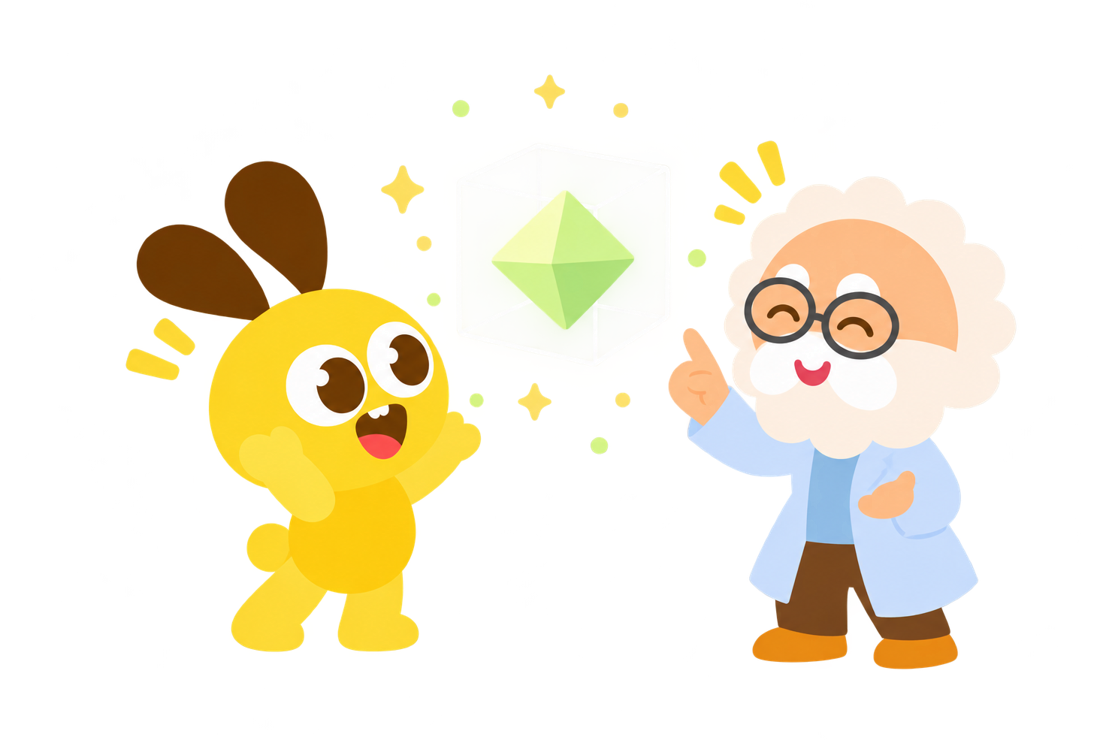
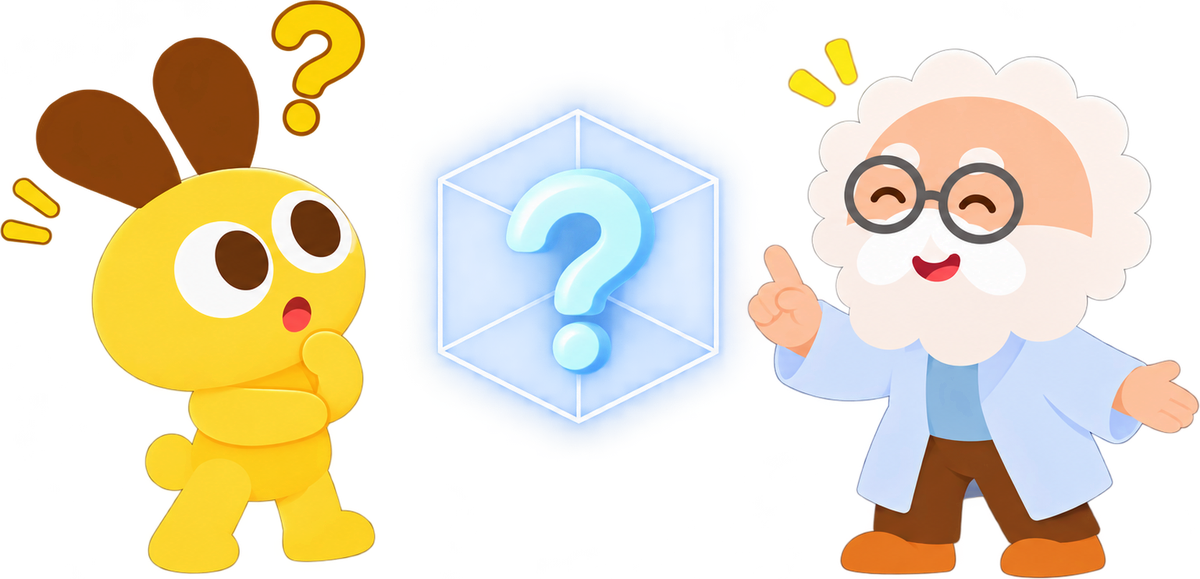
第4节第六版：统一用词“盐粒”；离子页标题加离子式；第9页可标出 Na⁺/Cl⁻；章节②新配图；课后挑战1/2、拓展挑战（养一颗大盐粒）；删去今日作业与真实盐晶体页
Claude-Session: https://claude.ai/code/session_01PcKrhaWuNhYWD5xtL8fsed

diff --git a/steamkit-course/lesson04-yanli-xiaofangkuai/review.js b/steamkit-course/lesson04-yanli-xiaofangkuai/review.js
@@ -5,7 +5,7 @@ import {batchContent,bindBatch,cleanupBatch,BATCH_MAX} from './batch-scenes.js';
 import {CAF2_STAGES} from './caf2-stages.js';
 import {NEW_MAX,kitchen,methods,micro,why,ions,conclusion,bindNew,cleanupNew} from './new-scenes.js';
 // Stable scene ids preserve all 22 existing interactions; visible page 3 is new scene 23.
-const SCENES=[1,50,55,51,5,59,52,60,61,62,63,39,38,41,40,42,44,56,57,22];
+const SCENES=[1,50,55,51,5,59,52,60,61,62,63,39,38,41,42,44,56,57,64,65];
 const $=s=>document.querySelector(s);
 const visiblePage=()=>SCENES.indexOf(state.page)+1;
 const adjacentScene=delta=>SCENES[visiblePage()-1+delta];
@@ -19,7 +19,7 @@ const axes=[0,2,1];
 const axisLine=a=>choose(grid,p=>p.every((v,k)=>k===axes[a]||Math.abs(v)<EPS));
 const bottomCenter=choose(grid,p=>p[1]<-EPS&&Math.abs(p[0])+Math.abs(p[2])<EPS);
 const layerStages=[bottomCenter,choose(grid,p=>p[1]<-EPS&&Math.abs(p[2])<EPS),choose(grid,p=>p[1]<-EPS&&p[2]<EPS),layer];
-const maxSteps={...BATCH_MAX,...NEW_MAX,52:0,59:0,60:0,61:4,62:3,63:4,39:3,57:3,2:1,4:1,6:1,8:2,9:3,10:3,11:2,14:3,15:2,16:1,19:3,21:3};
+const maxSteps={...BATCH_MAX,...NEW_MAX,52:0,59:0,60:0,61:4,62:3,63:4,39:3,57:0,64:3,2:1,4:1,6:1,8:2,9:3,10:3,11:2,14:3,15:2,16:1,19:3,21:3};
 const state={page:1,step:0,guess:null,axis:0,notes:false,toc:false,sound:true,record:false,rowError:false,recordValues:{}};
 let deck,controllers=new Map(),pour=null,scope=0,storingFailed=false;
 try{state.recordValues=JSON.parse(localStorage.getItem('salt-review-record')||'{}');if(!state.recordValues||typeof state.recordValues!=='object')state.recordValues={};}catch{state.recordValues={};}
@@ -27,7 +27,7 @@ const sound=window.createCourseSound(window.AudioContext||window.webkitAudioCont
 const specs=new Map();
 function host(key,spec,style=''){
  specs.set(key,spec);
- return `<div class="model-host" data-model-key="${key}" data-model="${spec.id}" style="${style}"><canvas tabindex="0" role="img" aria-label="黑白真实连接球与标准杆模型，可旋转、缩放"></canvas><span class="model-status" role="status">三维模型加载中…</span><button class="model-reset" aria-label="恢复本模型初始视角" title="恢复视角"><svg viewBox="0 0 24 24" aria-hidden="true"><path d="M4 10a8 8 0 1 1 1.5 7M4 4v6h6"/></svg><span>恢复视角</span></button></div>`;
+ return `<div class="model-host" data-model-key="${key}" data-model="${spec.id}" style="${style}"><canvas tabindex="0" role="img" aria-label="黑白真实连接球与标准杆模型，可旋转、缩放"></canvas><span class="model-status" role="status">三维模型加载中…</span><button class="model-reset" aria-label="恢复本模型初始视角"><svg viewBox="0 0 24 24" aria-hidden="true"><path d="M4 10a8 8 0 1 1 1.5 7M4 4v6h6"/></svg><span>恢复视角</span></button></div>`;
 }
 const title=(t,sub='')=>`<h1 class="review-title">${t}</h1>${sub?`<p class="review-sub">${sub}</p>`:''}`;
 const dots=(n,i)=>`<div class="step-dots" aria-label="第${i+1}步，共${n}步">${Array.from({length:n},(_,k)=>`<i class="${k<=i?'on':''}"></i>`).join('')}</div>`;
@@ -42,12 +42,12 @@ function modelScene(heading,spec,copy,{sub='',key='main',style='',counts=true}={
 }
 function plusButton(label){
  const max=maxSteps[state.page]||0;
- return state.step<max?`<button class="review-next-step round plus" data-action="advance" aria-label="${label}" title="${label}"><span aria-hidden="true">＋</span></button>`:'';
+ return state.step<max?`<button class="review-next-step round plus" data-action="advance" aria-label="${label}"><span aria-hidden="true">＋</span></button>`:'';
 }
 function stepButtons(label='下一步'){
  const max=maxSteps[state.page]||0;
  if([2,4,8].includes(state.page))return '';
- return state.step<max?`<button class="review-next-step round" data-action="advance" aria-label="${label}" title="${label}"><span aria-hidden="true">▶</span></button>`:'';
+ return state.step<max?`<button class="review-next-step round" data-action="advance" aria-label="${label}"><span aria-hidden="true">▶</span></button>`:'';
 }
 function chapter(n,heading,sub){
  return `<span class="chapter-number">${n}</span><div class="chapter-copy"><small>${sub}</small><h1>${heading}</h1><div class="chapter-rule"></div></div>`+
@@ -62,7 +62,8 @@ function content(){
   '<div class="build-key"><p><span class="dot black"></span>黑球 = 钠 <b class="ionf">Na⁺</b></p><p><span class="dot white"></span>白球 = 氯 <b class="ionf">Cl⁻</b></p><p><span class="rod"></span>蓝短棍 = 把它们连在一起</p></div>';
  if(p===61){
   const stages=[[0,1],[0,1,2],[0,1,2,3],[0,1,2,3,4],[0,1,2,3,4,5]];
-  return title('第 2 步：搭更多氯化钠')+host('nacl-row',{id:'row-six',balls:stages[s],height:16,yaw:0,pitch:.2},'left:60px;top:200px;width:1480px;height:600px')+plusButton('再接一颗');
+  const lab=s===4&&state.labels?['Na⁺','Cl⁻','Na⁺','Cl⁻','Na⁺','Cl⁻']:null;
+  return title('第 2 步：搭更多氯化钠')+host('nacl-row',{id:'row-six',balls:stages[s],height:16,yaw:0,pitch:.2,labels:lab},'left:60px;top:200px;width:1480px;height:600px')+plusButton('再接一颗')+(s===4?`<button class="label-toggle${state.labels?' on':''}" data-action="labels">${state.labels?'隐藏':'标出'} <b class="ionf">Na⁺</b> / <b class="ionf">Cl⁻</b></button>`:'');
  }
  if(p===62){
   const stages=[[0],[0,1,2],[0,1,2,3,4],[0,1,2,3,4,5,6]];
@@ -73,15 +74,23 @@ function content(){
   const m=models['lattice-5'],o=m.balls[62],sp=5.23606797749979;
   const lim=[[1,1,1],[2,1,1],[2,1,2],[2,2,2]][s];
   const ids=m.balls.flatMap((q,i)=>q.every((v,k)=>Math.abs(Math.round((v-o[k])/sp))<=lim[k])?[i]:[]);
-  return title('小盐晶体，是怎样长大的？')+host('grow-build',{id:'lattice-5',balls:ids,height:40,yaw:.42,pitch:.24},'left:250px;top:180px;width:1100px;height:660px')+plusButton('向外拼一层');
+  return title('小盐粒，是怎样长大的？')+host('grow-build',{id:'lattice-5',balls:ids,height:40,yaw:.42,pitch:.24},'left:250px;top:180px;width:1100px;height:660px')+plusButton('向外拼一层');
  }
- if(p===57){const st=s;
+ if(p===57||p===64){
   const cap=(name,f,rows)=>`<div class="ch-card"><h3>${name}<b class="ionf">${f}</b></h3>${rows.map(([c,t])=>`<p><span class="dot ${c}"></span>${t}</p>`).join('')}</div>`;
-  return title('课后挑战 1　盐的亲戚：氯化铯和萤石')+
-   host('cscl',{id:'cscl',height:11,yaw:.5,pitch:.32},'left:70px;top:150px;width:700px;height:470px')+
-   host('caf2',{id:'caf2-big',balls:CAF2_STAGES[st],height:[20,28,42,60][st],yaw:.5,pitch:.32},'left:830px;top:150px;width:700px;height:470px')+
+  const fl=cap('萤石 ','CaF₂',[['black','黑球 = 钙 Ca²⁺'],['white','白球 = 氟 F⁻'],['rod','蓝短棍：连成小方块'],['rod y','黄短棍：氟连到 4 个钙']]);
+  if(p===57)return title('课后挑战1：盐的亲戚——氯化铯和萤石')+
+   host('cscl',{id:'cscl',height:14,yaw:.5,pitch:.32},'left:110px;top:150px;width:620px;height:480px')+
+   host('caf2',{id:'caf2-big',balls:CAF2_STAGES[0],height:23,yaw:.5,pitch:.32},'left:870px;top:150px;width:620px;height:480px')+
    `<div class="ch-col" style="left:70px">${cap('氯化铯 ','CsCl',[['black','黑球 = 铯 Cs⁺'],['white','白球 = 氯 Cl⁻'],['rod','蓝短棍：连成方块'],['rod y','黄短棍：铯连到 8 个角']])}</div>`+
-   `<div class="ch-col" style="left:830px">${cap('萤石 ','CaF₂',[['black','黑球 = 钙 Ca²⁺'],['white','白球 = 氟 F⁻'],['rod','蓝短棍：连成小方块'],['rod y','黄短棍：氟连到 4 个钙']])}<p class="grow-tag2">${['1 格','2 格','4 格','8 格'][st]}</p></div>`+plusButton('萤石再拼一格');}
+   `<div class="ch-col" style="left:830px">${fl}</div>`;
+  return title('课后挑战2：搭一块大萤石')+
+   host('caf2-grow',{id:'caf2-big',balls:CAF2_STAGES[s],height:[20,23,27,32][s],yaw:.5,pitch:.32},'left:70px;top:150px;width:960px;height:690px')+
+   `<div class="ch-col side">${fl}<p class="grow-note">点 <b>＋</b>，一块接一块拼大</p></div>`+plusButton('萤石再拼一块');}
+ if(p===65)return title('拓展挑战：养一颗大盐粒')+
+  `<ol class="grow-steps"><li>请大人帮忙，配一杯很浓的盐水：盐放到化不开为止。</li><li>倒进干净的浅盘或杯子，放在不会被碰到的地方。</li><li>每天在差不多的时间，拍一张照片。</li><li>记一记：长出盐粒了吗？有多大？是什么形状？</li></ol>`+
+  `<div class="grow-photos"><img src="assets/p26-shape6.png" alt="手指捏着一颗方方的大盐粒（实拍）"><img src="assets/p27-shape5.png" alt="两颗透明的大盐粒（实拍）"></div>`+
+  `<p class="task-safety grow-safe">盐水不入口；用完的盐水请大人处理。</p><button class="record-open" data-action="record">打开观察记录 ↗</button>`+(state.record?recordPanel():'');
  if(p===56)return title('拼搭你喜欢的盐粒')+host('fav-a',{id:'twin-octa',height:19,yaw:.5,pitch:.28},'left:60px;top:170px;width:730px;height:640px')+host('fav-b',{id:'cube-octa',height:28,yaw:.55,pitch:.32},'left:810px;top:170px;width:730px;height:640px');
  if(p===63){
   const stages=['cross-3d','grid-1','grid-2','grid-3','grid-4'].map(id=>choose(grid,(q,i)=>models[id].balls.some(b=>b.every((v,k)=>Math.abs(v-q[k])<1e-6))));
@@ -98,7 +107,7 @@ function content(){
  if(p===2)return window.photoPour.render(state);
  if(p===23)return title('我们在显微镜下看看')+'<img class="microscope-photo" src="assets/p05-shape8.png" alt="原课件真实照片：三个孩子围着显微镜观察">';
  if(p===3)return title('显微镜下，猜猜哪一张是盐？')+window.originalRevisions.photos(deck.slides[5]);
- if(p===4)return title('盐为什么是小方块？')+`<img class="guess-rabbit" src="media/thinking-rabbit-redrawn.webp" alt="正在思考的黄色小兔">`+
+ if(p===4)return title('盐粒为什么是小方块？')+`<img class="guess-rabbit" src="media/thinking-rabbit-redrawn.webp" alt="正在思考的黄色小兔">`+
   (!s?'<button class="review-next-step guess-start" data-action="advance">我来猜一猜</button>':`<div class="guess-list">${['工厂把盐切成小方块','里面的小粒子排得有规律','我有别的猜想'].map((t,i)=>`<button data-guess="${i}" class="${state.guess===i?'selected':''}" aria-pressed="${state.guess===i}"><b>${'ABC'[i]}</b>${t}</button>`).join('')}</div>`);
  if(p===5)return chapter(1,'盐里面，<br>藏着什么？','先找规律，再动手');
  if(p===6)return title('认识两位小伙伴')+(!s?'<img class="ions-heap" src="media/page09-salt/heap.png" alt="一小堆白色盐粒">':`
@@ -183,8 +192,8 @@ function homework(){
    <article class="task-card"><small>探究</small><h2>哪杯长出的盐晶体大？</h2><p>两杯一样的盐水：一杯放窗台，一杯放冰箱。</p><strong>带回来：观察记录</strong></article>
   </div><p class="task-safety">请大人帮忙准备盐水；实验材料不入口。</p><button class="record-open" data-action="record">打开实验记录 ↗</button>`+(state.record?recordPanel():'');
 }
-const fieldNames={prediction:'我预测：哪杯长出的晶体更大？',date:'观察日期',open:'窗台那杯：看到了什么？',covered:'冰箱那杯：看到了什么？'};
-function recordPanel(){return `<section class="record-panel" role="dialog" aria-label="我的盐晶体观察记录"><h2>我的盐晶体观察记录</h2><button class="close" data-action="record">关闭 ×</button><div class="record-fields">${Object.entries(fieldNames).map(([k,label])=>`<label>${label}${['open','covered'].includes(k)?`<textarea data-record="${k}">${esc(state.recordValues[k])}</textarea>`:`<input data-record="${k}" type="${k==='date'?'date':'text'}" value="${esc(state.recordValues[k])}">`}</label>`).join('')}</div><p id="save-status">${storingFailed?'此浏览器无法保存，请下载记录。':'输入后保存在当前浏览器；换设备请下载记录。'}</p><div class="record-actions"><button data-action="download">下载记录 ↓</button></div></section>`;}
+const fieldNames={date:'开始日期',d1:'第 1 天：有没有长出盐粒？是什么形状？',d3:'第 3 天：变大了吗？',d7:'第 7 天：最大的一颗有多大？'};
+function recordPanel(){return `<section class="record-panel" role="dialog" aria-label="我的盐粒观察记录"><h2>我的盐粒观察记录</h2><button class="close" data-action="record">关闭 ×</button><div class="record-fields">${Object.entries(fieldNames).map(([k,label])=>`<label>${label}${['d1','d3','d7'].includes(k)?`<textarea data-record="${k}">${esc(state.recordValues[k])}</textarea>`:`<input data-record="${k}" type="${k==='date'?'date':'text'}" value="${esc(state.recordValues[k])}">`}</label>`).join('')}</div><p id="save-status">${storingFailed?'此浏览器无法保存，请下载记录。':'输入后保存在当前浏览器；换设备请下载记录。'}</p><div class="record-actions"><button data-action="download">下载记录 ↓</button></div></section>`;}
 function resize(){
  const r=$('#viewport').getBoundingClientRect();
  $('#stage').style.transform=`scale(${Math.min(r.width/1600,r.height/900)})`;
@@ -217,7 +226,7 @@ function render(animate=false){
  }
  for(const {controller} of old.values())controller.dispose();
  const resets=[...$('#slide').querySelectorAll('.model-host:not([data-interactive="false"]) .model-reset')];
- if(resets.length){const h=document.createElement('button');h.className='ctl-home';h.title='回正面';h.setAttribute('aria-label','回正面');h.innerHTML='<svg viewBox="0 0 24 24" aria-hidden="true"><rect x="3.5" y="7" width="11" height="11" rx="2"/><path d="M15 6a5.5 5.5 0 0 1 5 5M20 11l1.6-2.4M20 11l-2.6-1"/></svg>';h.onclick=()=>{resets.forEach(b=>b.click());if(state.sound)sound.play('select');};$('#slide').append(h);}
+ if(resets.length){const h=document.createElement('button');h.className='ctl-home';h.setAttribute('aria-label','回正面');h.innerHTML='<svg viewBox="0 0 24 24" aria-hidden="true"><rect x="3.5" y="7" width="11" height="11" rx="2"/><path d="M15 6a5.5 5.5 0 0 1 5 5M20 11l1.6-2.4M20 11l-2.6-1"/></svg>';h.onclick=()=>{resets.forEach(b=>b.click());if(state.sound)sound.play('select');};$('#slide').append(h);}
  window.originalRevisions.bindScene();bindBatch({state,advance});bindNew({state,sound:k=>{if(state.sound)sound.play(k);}});
  if(false){
   const scene=$('.p02-scene'),images=[...scene.querySelectorAll('img')];
@@ -233,9 +242,9 @@ function render(animate=false){
  $('#progress').value=visiblePage();$('#prev').disabled=state.page===1;$('#next').disabled=visiblePage()===LESSON.length;
  updatePanels();resize();
 }
-function goReset(){state.methods=new Set();}
-const MODEL_PAGES=new Set([60,61,62,63,38,39,42,44,56,57,58]);
-function navCue(n){return n===1?'cover':[5,41].includes(n)?'chapter':n===22?'finish':MODEL_PAGES.has(n)?'model':'page';}
+function goReset(){state.methods=new Set();state.labels=false;}
+const MODEL_PAGES=new Set([60,61,62,63,38,39,42,44,56,57,58,64]);
+function navCue(n){return n===1?'cover':[5,41].includes(n)?'chapter':n===65?'finish':MODEL_PAGES.has(n)?'model':'page';}
 function go(n){
  if(!SCENES.includes(n))return;
  if(n!==state.page)goReset();
@@ -249,9 +258,9 @@ function advance(){
  state.step++;render(true);if(state.sound)sound.play(state.page===39?'grow':[57,61,62,63].includes(state.page)?'plus':'reveal');
 }
 function downloadRecord(){
- const text='我的盐晶体观察记录\\n'.replace('\\n','\n')+Object.entries(fieldNames).map(([k,t])=>`${t}\n${state.recordValues[k]||'（未填写）'}`).join('\n\n')+'\n\n比较条件：同一批、同样多的盐水，同样的杯子；只改变放的地方（窗台 / 冰箱）。\n成人准备，实验材料不入口。\n';
+ const text='我的盐粒观察记录\\n'.replace('\\n','\n')+Object.entries(fieldNames).map(([k,t])=>`${t}\n${state.recordValues[k]||'（未填写）'}`).join('\n\n')+'\n\n请大人帮忙配盐水，，实验材料不入口。\n';
  const url=URL.createObjectURL(new Blob(['\ufeff'+text],{type:'text/plain;charset=utf-8'}));
- const a=document.createElement('a');a.href=url;a.download='盐晶体观察记录.txt';a.click();setTimeout(()=>URL.revokeObjectURL(url),1000);
+ const a=document.createElement('a');a.href=url;a.download='盐粒观察记录.txt';a.click();setTimeout(()=>URL.revokeObjectURL(url),1000);
 }
 document.addEventListener('click',e=>{
  if(e.target.closest('.salt-grain')){go(52);if(state.sound)sound.play('grow');return;}
@@ -273,6 +282,7 @@ document.addEventListener('click',e=>{
  if(a==='toc'){state.toc=!state.toc;state.notes=false;updatePanels();}
  if(a==='record'){state.record=!state.record;render();if(state.record)$('[data-record]')?.focus();}
  if(a==='download')downloadRecord();
+ if(a==='labels'){state.labels=!state.labels;render();if(state.sound)sound.play('pin');}
 });
 document.addEventListener('input',e=>{
  const key=e.target.dataset.record;if(!key)return;

diff --git a/steamkit-course/lesson04-yanli-xiaofangkuai/lesson.js b/steamkit-course/lesson04-yanli-xiaofangkuai/lesson.js
@@ -13,8 +13,8 @@ export const LESSON=[
   ['易错与准备','小兔、显微镜是卡通形象。']]},
  {title:'显微镜下，哪个是盐？',minutes:4,notes:[
   ['节奏','约 4 分钟：先猜哪个是盐、说理由，再在同一页抛出今天的大问题。'],
-  ['互动','两张显微照片，请孩子评论区打“左”或“右”，并说出理由。老师点照片：点错显示 ✗；点对显示 ✓，约 1 秒后盐的照片移到左边，右边出现“盐为什么是小方块？”和 A、B、C 三个猜想，请孩子投票，老师点选最多的那个。'],
-  ['预期回答·不要提前说','左边方方正正的是盐，右边边角不规则的是糖。猜想的答案是 B，第 11 页“小盐晶体是怎样长大的”再揭晓。'],
+  ['互动','两张显微照片，请孩子评论区打“左”或“右”，并说出理由。老师点照片：点错显示 ✗；点对显示 ✓，约 1 秒后盐的照片移到左边，右边出现“盐粒为什么是小方块？”和 A、B、C 三个猜想，请孩子投票，老师点选最多的那个。'],
+  ['预期回答·不要提前说','左边方方正正的是盐，右边边角不规则的是糖。猜想的答案是 B，第 12 页“小盐粒是怎样长大的”再揭晓。'],
   ['讲解','先别急着公布答案，我们把一粒盐放大再放大，自己去找。'],
   ['易错与准备','不要说“方的一定是盐”，只说这两张照片里盐是方的。用纸记下孩子的猜想，结尾回到这些猜想。']]},
  {title:'盐里面，藏着什么？',minutes:.5,notes:[
@@ -23,7 +23,7 @@ export const LESSON=[
  {title:'一粒盐里面，是什么？',minutes:0.5,notes:[
   ['互动','请孩子猜一猜：一粒盐里面是什么？然后点一下盐粒，放大进去。'],
   ['讲解','我们把一粒盐放大，再放大，放大到眼睛根本看不见的地方。']]},
- {title:'钠离子和氯离子，怎样排在一起？',minutes:5.5,notes:[
+ {title:'钠（Na⁺）和氯（Cl⁻），怎样排在一起？',minutes:5.5,notes:[
   ['节奏','拖动小球连线，约 4 分钟操作 + 1.5 分钟总结。'],
   ['互动','进页后小球会轻轻晃动。老师（或请孩子口述指挥）拖动小球：钠碰钠、氯碰氯会抖一下弹开；钠碰到氯就会吸住，中间连上蓝棍。5 个钠、5 个氯全部连成一条线后撒花。按 R 可以重来。'],
   ['讲解','盐里面有两种小到看不见的小粒子：小个子钠，头上带“＋”，科学家写成 Na⁺，叫钠离子；大个子氯，头上带“－”，写成 Cl⁻，叫氯离子。＋和＋互相推开，－和－也互相推开，＋和－互相吸引。所以排队的时候，只能一个钠、一个氯、一个钠……'],
@@ -50,24 +50,22 @@ export const LESSON=[
   ['互动','口诀：“挨着的球，一定换颜色。”搭完请孩子举起作品对着镜头。'],
   ['预期回答·不要提前说','最后是 3 层、每层 3 排、每排 3 颗，一共 27 颗球：13 黑、14 白，54 根蓝短棍。'],
   ['易错与准备','最常见的错误是两个同色球挨在一起，请孩子沿每条直线检查一黑一白。零件不够的孩子做到一层 3×3 即可。']]},
- {title:'小盐晶体，是怎样长大的？',minutes:4,notes:[
+ {title:'小盐粒，是怎样长大的？',minutes:4,notes:[
   ['互动','从刚才 27 颗球的小方块开始，点右下角“＋”，依次在左右、前后、上下各拼一层，长成 5×5×5 的大方块。'],
   ['讲解','新来的钠和氯，按同样的规矩一层一层贴上去，贴得整整齐齐，所以越长越大，还是方方正正。'],
-  ['预期回答·不要提前说','回到第 4 页的投票：盐为什么是小方块？答案是 B——里面钠和氯一个隔一个排成方格，一层层长大，还是小方块。请两三个孩子用自己的话说一遍。'],
+  ['预期回答·不要提前说','回到第 4 页的投票：盐粒为什么是小方块？答案是 B——里面钠和氯一个隔一个排成方格，一层层长大，还是小方块。请两三个孩子用自己的话说一遍。'],
   ['老师心里有数','这是理想的生长示意；真实晶体外形还和生长条件、杂质有关。']]},
- {title:'放进更大的晶格，规则还在吗？',minutes:2,notes:[
+ {title:'搭成更大的盐粒，规则还在吗？',minutes:2,notes:[
   ['互动','点“左右 / 前后 / 上下”，看高亮的那一排颜色怎么排。'],
   ['讲解','真正的一粒盐里，有数不清的钠和氯，可规矩一直没变：沿哪个方向看，都是一黑一白。'],
   ['易错与准备','这个 125 颗球的大模型只给孩子看，不要求搭。']]},
- {title:'在尿素、甲酰胺里，盐粒会变形吗？',minutes:0.5,notes:[
+ {title:'盐粒会变形吗？',minutes:0.5,notes:[
   ['讲解','平常的盐都是小方块。可如果盐水里溶进了尿素（尿里就有）或甲酰胺，盐会长成什么样？'],
   ['老师心里有数','甲酰胺是一种透明的液体，实验室里常用，孩子不需要记名字。'],
   ['易错与准备','插图是卡通形象。']]},
- {title:'真正的盐晶体，长什么样？',minutes:2,notes:[
-  ['互动','先看两张真实的盐晶体照片，再点按钮，出现两种外形：常见的立方体，和特殊条件下长出的正八面体。'],
-  ['讲解','盐水里如果溶进了尿素（尿里就有），盐就会长成两头尖尖的正八面体。两百多年前，法国科学家罗梅·德·利尔就发现：在尿液里长出来的盐，不是方块，而是八面体。里面一黑一白的排法没变，只是向外长的方式变了。'],
-  ['老师心里有数','尿素、甲酰胺分子会吸附在 NaCl 的 {111} 面上，减慢这些面的生长，于是外形从立方体变成正八面体；加入的量越多，越接近纯八面体。']]},
- {title:'盐粒里面，藏着一个八面体',minutes:3,notes:[
+ {title:'在特殊环境（尿素、甲酰胺）里',minutes:4,notes:[
+  ['讲解','盐水里如果溶进了尿素（尿里就有）或甲酰胺，盐粒就会长成两头尖尖的八面体。两百多年前，法国科学家罗梅·德·利尔就发现：在尿液里长出来的盐粒，不是方块，而是八面体。里面一黑一白的排法没变，只是向外长的方式变了。'],
+  ['老师心里有数','尿素、甲酰胺分子会吸附在 NaCl 的 {111} 面上，减慢这些面的生长，外形就从立方体变成八面体。严格说，钠周围 6 个氯围成的八面体在普通盐粒里也有；特殊环境改变的是整颗盐粒的外形。'],
   ['互动','回到“黑球 + 6 个白球”的立体十字，用绿短棍把相邻的白球连起来，每点一次按钮连一圈。'],
   ['预期回答·不要提前说','连出上下各一个尖的形状：正八面体。'],
   ['易错与准备','绿棍只是把 6 个邻居围成的形状画出来，不是钠和氯之间的连接。绿短棍 12 根。']]},
@@ -78,13 +76,18 @@ export const LESSON=[
  {title:'拼搭你喜欢的盐粒',minutes:2,notes:[
   ['互动','两个作品任选一个搭：左边是两个正八面体共用一个顶点；右边是在 3×3×3 小方块的角上和中间，各找出一个八面体。模型进页微转入场，可拖动旋转，右下角回正面。'],
   ['易错与准备','左：黑球 2（钠，中心）、白球 11（氯，顶点）、蓝短棍 12、绿短棍 24。右：在第 4 步的小方块上再加 5 颗球、29 根棍（课前试搭核对）。颜色规则和前面一样：黑球是钠，白球是氯，挨着的球一定换颜色。']]},
- {title:'课后挑战 1　盐的亲戚：氯化铯和萤石',minutes:2,notes:[
+ {title:'课后挑战1：盐的亲戚——氯化铯和萤石',minutes:1.5,notes:[
   ['讲解','左边是氯化铯：铯和钠是一家人，可铯个子大，身边能站下 8 个氯，正好在正方体的 8 个角上。右边是萤石：天然矿物，常长成彩色的方块或八面体，有的在紫外灯下会发光，“荧光”这个词就来自它；它是 1 个钙配 2 个氟。'],
-  ['互动','回家二选一：搭氯化铯，数一数铯周围有几个氯（8 个，课上的钠是 6 个）；或者搭萤石。点右下角“＋”，萤石从 1 格拼到 2 格、4 格、8 格。'],
-  ['易错与准备','氯化铯：黑球 1、白球 8、蓝短棍 12、黄短棍 8。萤石 1 格：黑 14、白 8、蓝 12、黄 32；2 格：黑 23、白 16、蓝 28、黄 64；4 格：黑 38、白 32、蓝 64、黄 128；8 格：黑 63、白 64、蓝 144、黄 256。在家建议 1–2 格，4 格以上适合小组合作。黄棍插三角形的孔；需确认套件有黄棍。'],
+  ['互动','回家二选一：搭氯化铯，数一数铯周围有几个氯（8 个，课上的钠是 6 个）；或者搭 1 块萤石。'],
+  ['易错与准备','氯化铯：黑球 1、白球 8、蓝短棍 12、黄短棍 8。萤石 1 块：黑 14、白 8、蓝 12、黄 32。黄棍插三角形的孔；需确认套件有黄棍。'],
   ['老师心里有数','CsCl：两套简单立方互相穿插，配位数 8，实验室用来分离 DNA，不能食用。CaF₂：Ca²⁺ 面心立方，F⁻ 占全部四面体空隙，每个 F⁻ 周围 4 个 Ca²⁺，每个 Ca²⁺ 周围 8 个 F⁻。'],
   ['可旋转 3D','两个模型都可拖动旋转、滚轮放大，右下角回正面。']]},
- {title:'今日作业',minutes:3,notes:[
-  ['互动','三个任务任选一个，下周带回来分享。“打开实验记录”可以在浏览器里填写和下载。'],
-  ['易错与准备','任务 3 是控制变量的探究：盐水、杯子都一样，只改变放的地方。请大人帮忙准备盐水，实验材料不入口。预期（不要提前说）：放在温度变化慢、水分蒸发慢的地方，往往长出更大、更整齐的晶体。']]}
+ {title:'课后挑战2：搭一块大萤石',minutes:1.5,notes:[
+  ['互动','点右下角“＋”，萤石从 1 块拼到 2 块、4 块、8 块。挑战 1 搭好萤石的小朋友，可以接着往外拼。'],
+  ['易错与准备','1 块：黑 14、白 8、蓝 12、黄 32；2 块：黑 23、白 16、蓝 28、黄 64；4 块：黑 38、白 32、蓝 64、黄 128；8 块：黑 63、白 64、蓝 144、黄 256。在家建议 1–2 块，4 块以上适合小组合作。'],
+  ['可旋转 3D','可拖动旋转、滚轮放大，右下角回正面。']]},
+ {title:'拓展挑战：养一颗大盐粒',minutes:2,notes:[
+  ['讲解','今天我们知道了：盐粒里的钠和氯排得整整齐齐，盐粒才长成小方块。回家可以自己“养”一颗盐粒，看它一天天长大。'],
+  ['互动','四个步骤：大人帮忙配很浓的盐水 → 倒进浅盘静置 → 每天差不多时间拍照 → 记录有没有长出盐粒、多大、什么形状。“打开观察记录”可以在浏览器里填写和下载。'],
+  ['易错与准备','盐水不入口，由大人准备和处理。预期（不要提前说）：放在安静、不被碰、蒸发慢的地方，更容易长出又大又整齐的方块盐粒；右上照片里方块中间“一圈圈往里凹”的样子，是盐粒边长得快、中间长得慢留下的。']]}
 ];

diff --git a/steamkit-course/lesson04-yanli-xiaofangkuai/batch-scenes.js b/steamkit-course/lesson04-yanli-xiaofangkuai/batch-scenes.js
@@ -57,18 +57,18 @@ export function batchContent(c){
  if(p===38){
   const m=models['lattice-5'],origin=m.balls[62],axis=[null,0,2,1][state.axis];
   const highlight=state.axis?m.balls.flatMap((p,i)=>p.every((v,k)=>k===axis||Math.abs(v-origin[k])<.01)?[i]:[]):[];
-  return title('放进更大的晶格，规则还在吗？')+host('clear-lattice',{id:'lattice-5',height:34,yaw:.32,pitch:.18,focus:state.axis?highlight:null,ghostOpacity:.09},'left:90px;top:215px;width:970px;height:580px')+`<section class="lattice-guide"><h2>相邻的球，<br>颜色怎样排？</h2><div class="lattice-axis-row">${['左右','前后','上下'].map((t,i)=>`<button data-axis="${i+1}" aria-pressed="${state.axis===i+1}">${t}</button>`).join('')}</div></section>`;
+  return title('搭成更大的盐粒，规则还在吗？')+host('clear-lattice',{id:'lattice-5',height:34,yaw:.32,pitch:.18,focus:state.axis?highlight:null,ghostOpacity:.09},'left:90px;top:215px;width:970px;height:580px')+`<section class="lattice-guide"><h2>相邻的球，<br>颜色怎样排？</h2><div class="lattice-axis-row">${['左右','前后','上下'].map((t,i)=>`<button data-axis="${i+1}" aria-pressed="${state.axis===i+1}">${t}</button>`).join('')}</div></section>`;
  }
  if(p===39){
   const initial=stageInfo(19,0),full=stageInfo(19,6),spec=s?full:initial;
   const sharedView={id:'lattice-5',height:39,yaw:.42,pitch:.24,syncView:'growth-compare'};
-  return title('小盐晶体，是怎样长大的？')+`<p class="batch-caption">${s?'整个外圈一起添一层':'从一小块晶体开始'}</p><section class="growth-comparison" data-phase="${s?'growing':'initial'}">`+host('growth',{...sharedView,balls:spec.balls,struts:spec.struts,transition:'shell'},'left:475px;top:235px;width:650px;height:540px')+host('growth-original',{...sharedView,balls:initial.balls,struts:initial.struts},'left:100px;top:235px;width:650px;height:540px')+'<div class="comparison-label small-label">原来的小晶体</div><div class="comparison-label large-label">添一圈后的大晶体</div><svg class="comparison-arrow" viewBox="0 0 160 60" aria-label="小晶体到大晶体"><path d="M8 30H140M115 8L140 30L115 52"/></svg></section>'+stepButtons('向外添一层');
+  return title('小盐粒，是怎样长大的？')+`<p class="batch-caption">${s?'整个外圈一起添一层':'从一颗小盐粒开始'}</p><section class="growth-comparison" data-phase="${s?'growing':'initial'}">`+host('growth',{...sharedView,balls:spec.balls,struts:spec.struts,transition:'shell'},'left:475px;top:235px;width:650px;height:540px')+host('growth-original',{...sharedView,balls:initial.balls,struts:initial.struts},'left:100px;top:235px;width:650px;height:540px')+'<div class="comparison-label small-label">原来的小晶体</div><div class="comparison-label large-label">添一圈后的大晶体</div><svg class="comparison-arrow" viewBox="0 0 160 60" aria-label="小晶体到大晶体"><path d="M8 30H140M115 8L140 30L115 52"/></svg></section>'+stepButtons('向外添一层');
  }
  if(p===40)return photoShapeMarkup(s);
- if(p===41)return '<span class="chapter-number">2</span><h1 class="chapter-title long">在尿素、甲酰胺里，盐粒会变形吗？</h1><img class="chapter-art-std" src="media/ch2.png" alt="阿基米德爷爷指着方块里的八面体，小兔惊喜地看着（卡通形象）" draggable="false">';
- if(p===42)return title('盐粒里面，藏着一个八面体')+host('octa-growing',octaSpec(s),'left:290px;top:190px;width:1020px;height:640px')+stepButtons('继续拼搭');
+ if(p===41)return '<span class="chapter-number">2</span><h1 class="chapter-title">盐粒会变形吗？</h1><img class="chapter-art-std" src="media/ch2.png" alt="小兔托着下巴思考，爷爷举起手指，中间是一个带问号的方块（卡通形象）" draggable="false">';
+ if(p===42)return title('在特殊环境（尿素、甲酰胺）里')+host('octa-growing',octaSpec(s),'left:290px;top:190px;width:1020px;height:640px')+stepButtons('继续拼搭');
  if(p===43)return title('两组邻居，可以共用粒子')+host('shared',{id:'shared-octa',height:21,highlight:SHARED_BALLS},'left:240px;top:230px;width:1120px;height:520px')+'<p class="shared-explanation">橙圈中的两颗球，两组邻居都用到了</p>';
- if(p===44)return title('换一个中心，还能找到八面体吗？')+host('na-center',coordinationStage('na',s),'left:150px;top:260px;width:600px;height:440px')+host('cl-center',coordinationStage('cl',s),'left:850px;top:260px;width:600px;height:440px')+'<p class="coord-label left">钠在中间，六个氯在周围</p><p class="coord-label right">氯在中间，六个钠在周围</p>'+stepButtons('继续拼搭');
+ if(p===44)return title('换一个中心，还能找到八面体吗？')+host('na-center',coordinationStage('na',s),'left:150px;top:260px;width:600px;height:440px')+host('cl-center',coordinationStage('cl',s),'left:850px;top:260px;width:600px;height:440px')+'<p class="coord-label left"><b class="ionf">Na⁺</b> 在中心</p><p class="coord-label right"><b class="ionf">Cl⁻</b> 在中心</p>'+stepButtons('继续拼搭');
  if(p===46)return title('今日作业')+`<div class="homework-copy"><h2>任务 1</h2><p>拼搭氯化钠晶体结构，对比氯离子和钠离子为中心的八面体配位环境。</p>${s?'<div class="homework-extra"><h2>任务 2（选做）</h2><p>家人协助，配制饱和盐水。静置观察，看看盐晶体会不会出现。连续几天拍照，记录大小和形状变化。</p></div>':''}</div>${host('homework-native',{id:'shared-octa',height:20,highlight:SHARED_BALLS},'left:970px;top:190px;width:500px;height:370px')}${s?'<img class="homework-photo" src="assets/p26-shape6.png" alt="观察盐晶体的实拍">':''}`+stepButtons('看看选做任务');
  if(p===47)return title('实验记录：我的盐晶体长大了吗？')+'<p class="review-sub">每天在相近的时间观察：有没有晶体？形状、大小有什么变化？</p><div class="experiment-photos"><img src="assets/p27-shape5.png" alt="原版盐晶体观察示例一"><img src="assets/p27-shape6.png" alt="原版盐晶体观察示例二"></div>';
  return null;

diff --git a/steamkit-course/lesson04-yanli-xiaofangkuai/new-scenes.js b/steamkit-course/lesson04-yanli-xiaofangkuai/new-scenes.js
@@ -11,7 +11,7 @@ export function kitchen(state,title){
   `<p class="kitchen-ask">有什么办法知道？</p>`+
   `<div class="awall" aria-live="polite"><span class="aempty">孩子说的办法，贴在这里</span></div>`+
   `<div class="acombo"><form class="acform"><div class="acfield"><input maxlength="8" aria-label="孩子说的办法" autocomplete="off" placeholder="输入或选一个办法"><button type="button" class="acopen" aria-label="展开选项" aria-expanded="false">▲</button></div><button type="submit" class="acadd" aria-label="贴上去" title="贴上去">贴上去</button></form><ul class="aclist" hidden>${WALL_OPTIONS.map(([n,i])=>`<li><button type="button" data-wall="${n}"><img src="${i}" alt="">${n}</button></li>`).join('')}</ul></div>`+
-  `<button class="review-next-step round areset" aria-label="清空" title="清空"><span aria-hidden="true">↺</span></button>`;
+  `<button class="review-next-step round areset" aria-label="清空"><span aria-hidden="true">↺</span></button>`;
 }
 function bindWall(sound){
  const root=document.querySelector('#slide');const wall=root.querySelector('.awall');if(!wall)return()=>{};
@@ -51,7 +51,7 @@ export function methods(state,title){
 function bindMethods(sound){
  const root=document.querySelector('#slide');const pop=root.querySelector('.react-pop');if(!pop)return()=>{};
  const h=e=>{const b=e.target.closest('[data-method]');if(!b)return;const k=b.dataset.method,r=METHOD_REACT[k];
-  if(!b.classList.contains('shown')){b.classList.add('shown');b.insertAdjacentHTML('beforeend',`<span class="m-say">${r.say}</span>`+(k==='taste'?'<i class="ban-stamp" aria-hidden="true"></i>':`<i class="m-badge">${r.mark}</i>`));}
+  if(!b.classList.contains('shown')){b.classList.add('shown');b.insertAdjacentHTML('beforeend',(k==='taste'?'<i class="ban-stamp" aria-hidden="true"></i>':`<i class="m-badge">${r.mark}</i>`));}
   pop.className='react-pop show '+r.cls;pop.innerHTML=r.pop;void pop.offsetWidth;pop.classList.add('in');
   sound?.(k==='look'?'good':'wrong');};
  root.addEventListener('click',h);return ()=>root.removeEventListener('click',h);
@@ -72,7 +72,7 @@ function bindMicro(sound){
 
 export function why(state,title){
  const guesses=['工厂把盐切成了小方块','盐里面的小粒子，排得整整齐齐','我有别的猜想'];
- return `<img class="why-art slide-in" src="assets/p06-shape5.jpeg" alt="显微镜下的盐粒" draggable="false"><div class="why-guesses big"><p class="why-ask">盐为什么是小方块？</p>${guesses.map((t,i)=>`<button data-guess="${i}" class="${state.guess===i?'selected':''}" aria-pressed="${state.guess===i}" style="--i:${i}"><b>${'ABC'[i]}</b>${t}</button>`).join('')}</div>`;
+ return `<img class="why-art slide-in" src="assets/p06-shape5.jpeg" alt="显微镜下的盐粒" draggable="false"><div class="why-guesses big"><p class="why-ask">盐粒为什么是小方块？</p>${guesses.map((t,i)=>`<button data-guess="${i}" class="${state.guess===i?'selected':''}" aria-pressed="${state.guess===i}" style="--i:${i}"><b>${'ABC'[i]}</b>${t}</button>`).join('')}</div>`;
 }
 
 // ---------- Page 52: one grain zooms into ions; drag to build Na-Cl chain ----------
@@ -88,7 +88,7 @@ const face=(kind)=>{
 export function ions(state,title){
  if(state.step===0)return title('一粒盐里面，是什么？')+
   `<div class="grain-stage"><svg class="salt-grain" data-action="advance" tabindex="0" style="cursor:zoom-in" viewBox="0 0 300 300" role="img" aria-label="一粒小方块盐"><path d="M50 95L150 45L250 95L150 145Z" fill="#ffffff"/><path d="M50 95L150 145V255L50 205Z" fill="#d6e2ee"/><path d="M150 145L250 95V205L150 255Z" fill="#eaf1f7"/></svg></div>`;
- return title('钠离子和氯离子，怎样排在一起？')+
+ return title('钠<span class="ionf p">（Na⁺）</span>和氯<span class="ionf p">（Cl⁻）</span>，怎样排在一起？')+
   `<div class="zoom-flash" aria-hidden="true"></div><svg id="ion-field" class="ion-field" viewBox="0 0 1600 900" role="application" aria-label="拖动钠和氯：同类会弹开，钠和氯会吸住连起来">
    
    <g id="ion-rods"></g>
@@ -231,6 +231,6 @@ function bindIons(sound){
 export function conclusion(title,host){
  return title('排得整整齐齐，就长成小方块！')+
   host('answer-cube',{id:'grid-4',height:16},'left:70px;top:215px;width:700px;height:560px')+
-  `<figure class="celebrate-art"><img src="media/celebrate.webp" alt="小兔举起盐方块，阿基米德爷爷竖起大拇指（卡通形象）"></figure>
+  `<figure class="celebrate-art"><img src="media/celebrate.webp" alt="小兔举起方方的盐粒，阿基米德爷爷竖起大拇指（卡通形象）"></figure>
   <div class="answer-two"><p><span>里面</span>钠和氯一个隔一个，排成方格</p><p><span>外面</span>一层层长大，还是小方块</p></div><div class="confetti"></div>`;
 }

diff --git a/steamkit-course/lesson04-yanli-xiaofangkuai/photo-shape-transition.js b/steamkit-course/lesson04-yanli-xiaofangkuai/photo-shape-transition.js
@@ -1,4 +1,4 @@
 /* Original27 saltPhotos markup and CSS motion, not screenshots. */
 export function photoShapeMarkup(step,forward=true){
-return `<section class="dc-photo-shapes ${step?'dc-photos-extracted':''} ${step&&forward?'dc-photos-jumping':''}"><h1 class="original-photo-title">真正的盐晶体，长什么样？</h1><div class="salt-photos dc-source-photos"><figure data-photo-origin="0"><img src="media/page20-real/halite-cube.webp" alt="伦敦自然历史博物馆的石盐晶体实拍"></figure><figure data-photo-origin="1"><img src="media/page20-real/halite-cluster.webp" alt="美国 Trona 石盐晶簇的实拍"></figure></div>${step?`<div class="shape-card dc-shape-from-photo" data-origin="0"><svg viewBox="0 0 400 300" role="img" aria-label="立方外形示意"><path d="M95 100L210 35L325 100L210 165Z" fill="#b9dcee"/><path d="M95 100L210 165V280L95 215Z" fill="#85badb"/><path d="M210 165L325 100V215L210 280Z" fill="#d6eaf3"/><path d="M95 100L210 35L325 100V215L210 280L95 215ZM95 100L210 165L325 100M210 165V280" fill="none" stroke="#397899" stroke-width="4"/></svg><h2>常见的立方外形</h2></div><div class="shape-card dc-shape-from-photo" data-origin="1"><svg viewBox="0 0 400 300" role="img" aria-label="八面体外形示意"><path d="M200 20L70 150L200 190L330 150Z" fill="#c8e6d4"/><path d="M70 150L200 190L200 285Z" fill="#69ad8c"/><path d="M200 190L330 150L200 285Z" fill="#a0d1b4"/><path d="M200 20L70 150L200 285L330 150ZM70 150L200 190L330 150M200 20V285" fill="none" stroke="#438b69" stroke-width="4"/></svg><h2>某些条件下的八面体外形</h2></div>`:''}${!step?'<button class="review-next-step round" data-action="advance" aria-label="看看外形" title="看看外形"><span aria-hidden="true">▶</span></button>':''}</section>`;
+return `<section class="dc-photo-shapes ${step?'dc-photos-extracted':''} ${step&&forward?'dc-photos-jumping':''}"><h1 class="original-photo-title">真正的大盐粒，长什么样？</h1><div class="salt-photos dc-source-photos"><figure data-photo-origin="0"><img src="media/page20-real/halite-cube.webp" alt="伦敦自然历史博物馆的石盐晶体实拍"></figure><figure data-photo-origin="1"><img src="media/page20-real/halite-cluster.webp" alt="美国 Trona 石盐晶簇的实拍"></figure></div>${step?`<div class="shape-card dc-shape-from-photo" data-origin="0"><svg viewBox="0 0 400 300" role="img" aria-label="立方外形示意"><path d="M95 100L210 35L325 100L210 165Z" fill="#b9dcee"/><path d="M95 100L210 165V280L95 215Z" fill="#85badb"/><path d="M210 165L325 100V215L210 280Z" fill="#d6eaf3"/><path d="M95 100L210 35L325 100V215L210 280L95 215ZM95 100L210 165L325 100M210 165V280" fill="none" stroke="#397899" stroke-width="4"/></svg><h2>常见的立方外形</h2></div><div class="shape-card dc-shape-from-photo" data-origin="1"><svg viewBox="0 0 400 300" role="img" aria-label="八面体外形示意"><path d="M200 20L70 150L200 190L330 150Z" fill="#c8e6d4"/><path d="M70 150L200 190L200 285Z" fill="#69ad8c"/><path d="M200 190L330 150L200 285Z" fill="#a0d1b4"/><path d="M200 20L70 150L200 285L330 150ZM70 150L200 190L330 150M200 20V285" fill="none" stroke="#438b69" stroke-width="4"/></svg><h2>某些条件下的八面体外形</h2></div>`:''}${!step?'<button class="review-next-step round" data-action="advance" aria-label="看看外形" title="看看外形"><span aria-hidden="true">▶</span></button>':''}</section>`;
 }

diff --git a/steamkit-course/lesson04-yanli-xiaofangkuai/index.html b/steamkit-course/lesson04-yanli-xiaofangkuai/index.html
@@ -3,9 +3,9 @@
 <head><meta charset="utf-8"><meta name="viewport" content="width=device-width,initial-scale=1,viewport-fit=cover"><meta name="theme-color" content="#1e2a44"><title>盐粒为什么是小方块</title>
 
 
-<link rel="stylesheet" href="legacy.css?v=20261109e"><link rel="stylesheet" href="original-revisions.css?v=20261109e"><link rel="stylesheet" href="review.css?v=20261109e"><link rel="stylesheet" href="batch.css?v=20261109e"><link rel="stylesheet" href="refinement.css?v=20261109e"><link rel="stylesheet" href="dark-theme.css?v=20261109e"><link rel="stylesheet" href="controls-refinement.css?v=20261109e"><link rel="stylesheet" href="microscope-refinement.css?v=20261109e"><link rel="stylesheet" href="salt-v2.css?v=20261109e"><link rel="stylesheet" href="standard.css?v=20261109e"></head>
+<link rel="stylesheet" href="legacy.css?v=20261109f"><link rel="stylesheet" href="original-revisions.css?v=20261109f"><link rel="stylesheet" href="review.css?v=20261109f"><link rel="stylesheet" href="batch.css?v=20261109f"><link rel="stylesheet" href="refinement.css?v=20261109f"><link rel="stylesheet" href="dark-theme.css?v=20261109f"><link rel="stylesheet" href="controls-refinement.css?v=20261109f"><link rel="stylesheet" href="microscope-refinement.css?v=20261109f"><link rel="stylesheet" href="salt-v2.css?v=20261109f"><link rel="stylesheet" href="standard.css?v=20261109f"></head>
 <body data-edition="guided-from-22">
 <main id="viewport" class="viewport"><div id="stage" class="stage"><div id="slide" class="slide"></div><div id="directory" class="directory panel" hidden></div><aside id="notes" class="notes panel" aria-label="讲师备注" hidden></aside></div></main>
 <footer class="footer" aria-label="屏幕外课件导航"><button id="prev">← 上一页</button><button id="stepback" hidden aria-label="回到本页上一步">↶ 上一步</button><span id="pagecount" aria-live="polite">加载中</span><progress id="progress" max="20" value="1" aria-label="课件进度"></progress><button id="toc">目录</button><button id="notebutton">讲师备注</button><button id="sound" aria-pressed="true">声音：开</button><button id="fullscreen">全屏</button><button id="next">下一页 →</button><span class="keyhints">←→ 翻页 · 空格 下一步 · N 备注 · G 目录 · F 全屏</span></footer>
 
-<script src="sound.js?v=20261109e"></script><script src="page02-pour.js?v=20261109e"></script><script src="original-revisions.js?v=20261109e"></script><script type="module" src="review.js?v=20261109e"></script></body></html>
+<script src="sound.js?v=20261109f"></script><script src="page02-pour.js?v=20261109f"></script><script src="original-revisions.js?v=20261109f"></script><script type="module" src="review.js?v=20261109f"></script></body></html>

diff --git a/steamkit-course/lesson04-yanli-xiaofangkuai/standard.css b/steamkit-course/lesson04-yanli-xiaofangkuai/standard.css
@@ -231,3 +231,24 @@
 .ionf.t{font-family:var(--body);font-weight:800;margin-left:10px}
 .cover-banner{top:160px;width:1560px;height:639px}
 .banner-text{top:508px}.banner-text h1{font-size:74px}
+/* v10 */
+.label-toggle{position:absolute;right:200px;bottom:62px;height:76px;padding:0 34px;border-radius:40px;border:5px solid var(--orange);background:#fffdf7;color:#26364d;font:34px var(--display);cursor:pointer;box-shadow:0 6px 0 #c9bfae}
+.label-toggle .ionf{font-size:32px;color:#d98a12}
+.label-toggle.on{background:#fbe9c8}
+.coord-label .ionf{font-size:36px;font-style:italic}
+.coord-label{font:34px var(--display)}
+.ch-col{top:650px}
+.ch-col.side{top:260px;left:1060px;width:480px;flex-direction:column;align-items:stretch;gap:24px}
+.ch-col.side .ch-card{width:480px}.ch-col.side .ch-card p{float:none;width:auto}
+.grow-note{margin:0;font:30px var(--display);color:#fbf6ec;text-align:center}.grow-note b{color:var(--orange)}
+.grow-steps{position:absolute;left:90px;top:190px;width:760px;margin:0;padding:0;list-style:none;counter-reset:g}
+.grow-steps li{counter-increment:g;position:relative;margin:0 0 26px;padding:18px 24px 18px 92px;border-radius:24px;background:#293951;font:32px/1.4 var(--display);color:#fbf6ec}
+.grow-steps li::before{content:counter(g);position:absolute;left:22px;top:50%;transform:translateY(-50%);width:52px;height:52px;border-radius:50%;background:var(--orange);color:#fff;font:34px/52px var(--display);text-align:center}
+.grow-photos{position:absolute;left:900px;top:190px;width:620px;display:flex;flex-direction:column;gap:22px}
+.grow-photos img{width:620px;height:290px;object-fit:cover;border-radius:24px;box-shadow:0 10px 26px #0006}
+.grow-safe{top:760px!important;color:#c9d2de!important}
+.scene-41 .chapter-number{left:100px}.scene-41 .chapter-art-std{left:860px!important;top:170px!important;width:720px!important;height:620px!important}
+#slide .label-toggle{background:#fffdf7!important;color:#26364d!important;border:5px solid var(--orange)!important;opacity:1!important}
+#slide .label-toggle.on{background:#fbe9c8!important}
+.ionf.p{margin:0 2px;font-family:var(--body);font-weight:800}
+.scene-41 .chapter-art-std{left:760px!important;top:230px!important;width:820px!important;height:500px!important}

diff --git a/steamkit-course/lesson04-yanli-xiaofangkuai/kit-model-view.js b/steamkit-course/lesson04-yanli-xiaofangkuai/kit-model-view.js
@@ -80,7 +80,7 @@ function focusLattice(axis){
   mesh.material=(on?materials:ghostMaterials)[material];mesh.castShadow=on;mesh.renderOrder=on?1:0;mesh.userData.active=!!axis&&on;
  }
 }
-export function renderModel(canvas,id,{yaw=.545,pitch=.274,height=17,orthographic=false,axis=0,visibleBalls=null,visibleStruts=null,ballOffsets={},strutOffsets={},highlight=[],focusBalls=null,ghostOpacity=.12}={}){
+export function renderModel(canvas,id,{yaw=.545,pitch=.274,height=17,orthographic=false,axis=0,visibleBalls=null,visibleStruts=null,ballOffsets={},strutOffsets={},highlight=[],focusBalls=null,ghostOpacity=.12,labels=null}={}){
  const {scene,lights,group,model}=buildScene(id),r=getRenderer(),w=canvas.width,h=canvas.height;
  if(id==='lattice-5')focusLattice(axis);
  for(const material of Object.values(ghostMaterials))material.opacity=ghostOpacity;
@@ -121,6 +121,19 @@ export function renderModel(canvas,id,{yaw=.545,pitch=.274,height=17,orthographi
   ctx.beginPath();ctx.arc(x,y,radius,0,Math.PI*2);
   ctx.strokeStyle='#fffaf2';ctx.lineWidth=8;ctx.stroke();
   ctx.strokeStyle='#d77916';ctx.lineWidth=4;ctx.stroke();
+ }
+ if(labels){
+  ctx.textAlign='center';ctx.textBaseline='top';
+  labels.forEach((text,index)=>{
+   if(!text||(visible&&!visible.has(index)))return;
+   const p=new T.Vector3().fromArray(model.balls[index]).add(group.position);
+   const edge=p.clone().add(new T.Vector3(1.3,0,0).applyQuaternion(camera.quaternion));
+   p.project(camera);edge.project(camera);
+   const x=(p.x+1)*w/2,y=(1-p.y)*h/2,radius=Math.abs(edge.x-p.x)*w/2;
+   ctx.font=`italic 700 ${Math.round(Math.max(26,radius*.9))}px "Times New Roman",serif`;
+   ctx.lineWidth=6;ctx.strokeStyle='#1f2a44';ctx.strokeText(text,x,y+radius+10);
+   ctx.fillStyle='#f5c542';ctx.fillText(text,x,y+radius+10);
+  });
  }
 }
 export function resetViews(){views.clear();}

diff --git a/steamkit-course/lesson04-yanli-xiaofangkuai/review-model.js b/steamkit-course/lesson04-yanli-xiaofangkuai/review-model.js
@@ -19,7 +19,7 @@ export function mountModel(host,spec){
  function draw(){
   if(disposed||!host.isConnected)return;
   try{
-   renderModel(canvas,spec.id,{...view,...current,focusBalls:focus,highlight:spec.highlight||[],ghostOpacity:spec.ghostOpacity??.12});
+   renderModel(canvas,spec.id,{...view,...current,focusBalls:focus,highlight:spec.highlight||[],ghostOpacity:spec.ghostOpacity??.12,labels:spec.labels||null});
    host.dataset.focus=JSON.stringify(focus);host.dataset.highlight=JSON.stringify(spec.highlight||[]);host.dataset.ghostOpacity=spec.ghostOpacity??.12;host.dataset.ready='true';host.dataset.yaw=view.yaw;host.dataset.height=view.height;
   }catch(e){host.dataset.ready='error';host.querySelector('.model-status').textContent='三维显示失败，请刷新重试';console.error(e);}
  }
@@ -28,6 +28,7 @@ export function mountModel(host,spec){
  if(spec.syncView){if(!syncGroups.has(spec.syncView))syncGroups.set(spec.syncView,new Set());syncGroups.get(spec.syncView).add(receiver);}
  function update(next,animate=true){
   cancelAnimationFrame(frame);focus=next.focus??null;spec={...spec,...next};
+  if(next.height&&next.height!==base.height){base.height=next.height;tweenView({...view},{...view,height:next.height},900);}
   const balls=next.balls??model.balls.map((_,i)=>i),set=new Set(balls);
   const rods=next.struts??model.struts.flatMap((e,i)=>set.has(e.a)&&set.has(e.b)?[i]:[]);
   const same=JSON.stringify(target)===JSON.stringify(balls)&&JSON.stringify(targetRods)===JSON.stringify(rods);

diff --git a/steamkit-course/lesson04-yanli-xiaofangkuai/修改说明.md b/steamkit-course/lesson04-yanli-xiaofangkuai/修改说明.md
@@ -52,3 +52,18 @@
 - 第 7 页标题改为「钠离子和氯离子，怎样排在一起？」；换新的 Na⁺（黑）/ Cl⁻（米白）角色；角色下只写 Na⁺ / Cl⁻。
 - 第 8 页标题改为「第 1 步：搭一个氯化钠 NaCl」。
 - 新增「课后挑战 1」：氯化铯 CsCl（左）与萤石 CaF₂（右，可＋长大到 2×2×2），每个模型下有说明；用到黄棍。
+
+## 11.09 第六版（20 页，54 分钟）
+- 用词统一：孩子看到、动手搭的都叫“盐粒”；“盐”只指这种物质（厨房里的盐、盐水）；页面上不再出现“晶体 / 盐晶 / 盐方块”。
+  - 「小盐粒，是怎样长大的？」「搭成更大的盐粒，规则还在吗？」「盐粒为什么是小方块？」
+- 第 3 页：卡片下方小字（闻不出来 / 不能尝！/ 好办法！）去掉，只保留角标和底部弹窗。
+- 第 7 页标题：「钠（Na⁺）和氯（Cl⁻），怎样排在一起？」，离子式黄色。
+- 第 9 页：六颗球搭完后，右下角出现「标出 Na⁺ / Cl⁻」按钮，点一下每颗球下面标出离子式（跟着模型转），再点隐藏。
+- 章节②：标题改为「盐粒会变形吗？」，换新配图（小兔思考 + 问号方块 + 爷爷）。
+- 八面体页标题改为「在特殊环境（尿素、甲酰胺）里」；尿素使盐粒长成八面体的讲解移入讲师备注。
+- 「换一个中心」：图注改为「Na⁺ 在中心」「Cl⁻ 在中心」。
+- 删去「真正的盐晶体，长什么样？」和「今日作业」。
+- 课后挑战1：盐的亲戚——氯化铯和萤石（模型缩小不遮挡，萤石固定 1 块）。
+- 课后挑战2：搭一块大萤石（＋ 从 1 块拼到 8 块，镜头随之拉远）。
+- 拓展挑战：养一颗大盐粒（恢复原课件的培养盐粒内容：四个步骤 + 原版实拍 + 观察记录）。
+- 右下角按钮去掉悬停提示小字。
